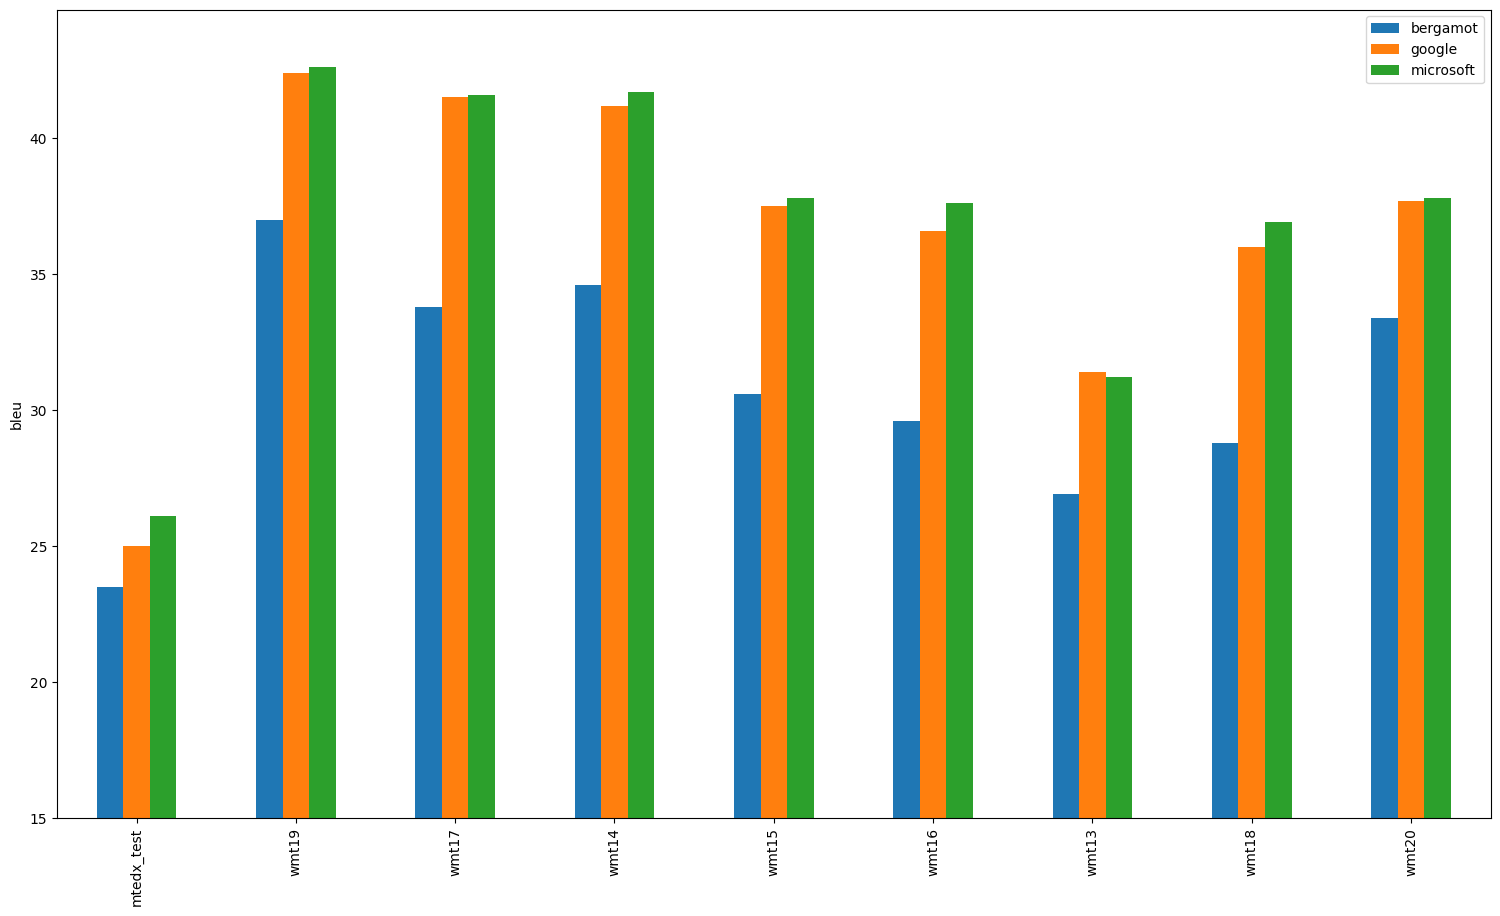
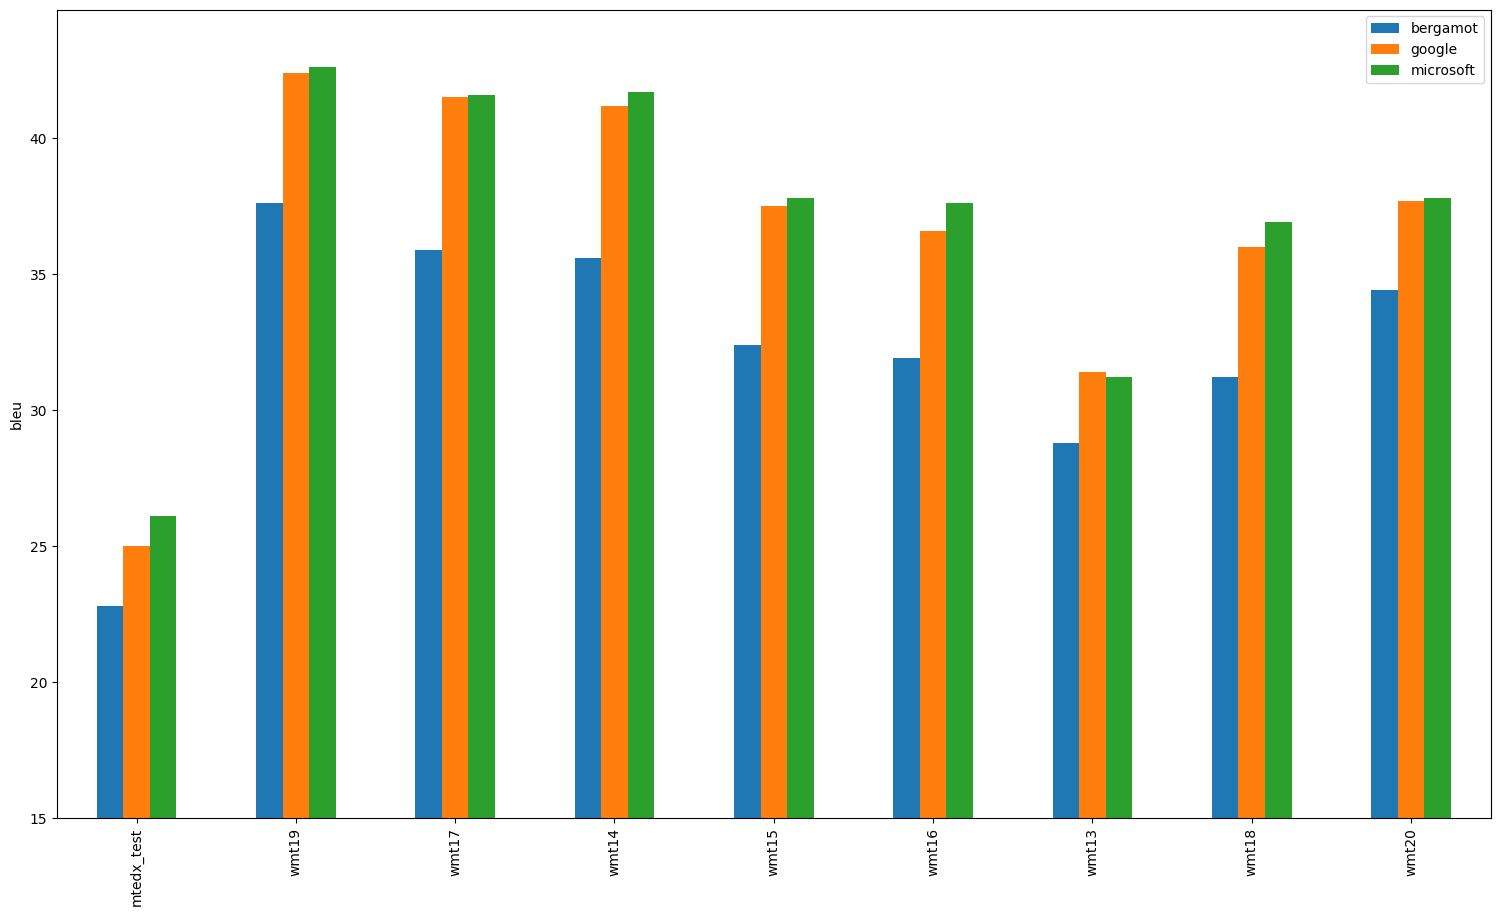
Add Portuguese and Russian test models (#9)
* Add contribution guidelines
* Update dev models
* Update evaluation results

diff --git a/evaluation/dev/results.md b/evaluation/dev/results.md
@@ -57,11 +57,11 @@ Both absolute and relative differences in BLEU scores between Bergamot and other
 
 ## avg
 
-| Translator/Dataset | ru-en |
-| --- | --- |
-| bergamot | 30.91 |
-| google | 36.59 (+5.68, +18.37%) |
-| microsoft | 37.03 (+6.12, +19.81%) |
+| Translator/Dataset | ru-en | en-ru | pt-en |
+| --- | --- | --- | --- |
+| bergamot | 32.29 | 28.51 | 39.70 |
+| google | 36.59 (+4.30, +13.32%) | 33.75 (+5.24, +18.37%) | 38.90 (-0.80, -2.02%) |
+| microsoft | 37.03 (+4.74, +14.69%) | 33.83 (+5.31, +18.63%) | 40.90 (+1.20, +3.02%) |
 
 ![Results](img/avg.png)
 
@@ -69,8 +69,28 @@ Both absolute and relative differences in BLEU scores between Bergamot and other
 
 | Translator/Dataset | mtedx_test | wmt19 | wmt17 | wmt14 | wmt15 | wmt16 | wmt13 | wmt18 | wmt20 |
 | --- | --- | --- | --- | --- | --- | --- | --- | --- | --- |
-| bergamot | 23.50 | 37.00 | 33.80 | 34.60 | 30.60 | 29.60 | 26.90 | 28.80 | 33.40 |
-| google | 25.00 (+1.50, +6.38%) | 42.40 (+5.40, +14.59%) | 41.50 (+7.70, +22.78%) | 41.20 (+6.60, +19.08%) | 37.50 (+6.90, +22.55%) | 36.60 (+7.00, +23.65%) | 31.40 (+4.50, +16.73%) | 36.00 (+7.20, +25.00%) | 37.70 (+4.30, +12.87%) |
-| microsoft | 26.10 (+2.60, +11.06%) | 42.60 (+5.60, +15.14%) | 41.60 (+7.80, +23.08%) | 41.70 (+7.10, +20.52%) | 37.80 (+7.20, +23.53%) | 37.60 (+8.00, +27.03%) | 31.20 (+4.30, +15.99%) | 36.90 (+8.10, +28.12%) | 37.80 (+4.40, +13.17%) |
+| bergamot | 22.80 | 37.60 | 35.90 | 35.60 | 32.40 | 31.90 | 28.80 | 31.20 | 34.40 |
+| google | 25.00 (+2.20, +9.65%) | 42.40 (+4.80, +12.77%) | 41.50 (+5.60, +15.60%) | 41.20 (+5.60, +15.73%) | 37.50 (+5.10, +15.74%) | 36.60 (+4.70, +14.73%) | 31.40 (+2.60, +9.03%) | 36.00 (+4.80, +15.38%) | 37.70 (+3.30, +9.59%) |
+| microsoft | 26.10 (+3.30, +14.47%) | 42.60 (+5.00, +13.30%) | 41.60 (+5.70, +15.88%) | 41.70 (+6.10, +17.13%) | 37.80 (+5.40, +16.67%) | 37.60 (+5.70, +17.87%) | 31.20 (+2.40, +8.33%) | 36.90 (+5.70, +18.27%) | 37.80 (+3.40, +9.88%) |
 
 ![Results](img/ru-en.png)
+
+## en-ru
+
+| Translator/Dataset | wmt16 | wmt15 | wmt18 | wmt14 | wmt17 | wmt20 | wmt13 | wmt19 |
+| --- | --- | --- | --- | --- | --- | --- | --- | --- |
+| bergamot | 28.80 | 29.70 | 26.50 | 35.30 | 31.60 | 21.00 | 25.20 | 30.00 |
+| google | 34.00 (+5.20, +18.06%) | 35.00 (+5.30, +17.85%) | 34.10 (+7.60, +28.68%) | 43.40 (+8.10, +22.95%) | 37.30 (+5.70, +18.04%) | 26.40 (+5.40, +25.71%) | 27.60 (+2.40, +9.52%) | 32.20 (+2.20, +7.33%) |
+| microsoft | 33.80 (+5.00, +17.36%) | 35.60 (+5.90, +19.87%) | 33.20 (+6.70, +25.28%) | 44.10 (+8.80, +24.93%) | 38.10 (+6.50, +20.57%) | 26.00 (+5.00, +23.81%) | 27.10 (+1.90, +7.54%) | 32.70 (+2.70, +9.00%) |
+
+![Results](img/en-ru.png)
+
+## pt-en
+
+| Translator/Dataset | mtedx_test |
+| --- | --- |
+| bergamot | 39.70 |
+| google | 38.90 (-0.80, -2.02%) |
+| microsoft | 40.90 (+1.20, +3.02%) |
+
+![Results](img/pt-en.png)

diff --git a/README.md b/README.md
@@ -5,15 +5,42 @@ The model files are hosted using [Git LFS](https://docs.github.com/en/github/man
 
 [prod](models/prod) - production quality models 
 
-[dev](models/dev) - test models under development (can be of low quality or speed)
+[dev](models/dev) - test models under development (can be of low quality or speed). 
 
-# Evaluation results
+When a dev model is tested by humans in the extension and has satisfactory quality, it is moved to prod.
 
-Quality evaluation is done using [firefox-translations-evaluation]() tool.
+# Automatic quality evaluation
 
-[prod](evaluation/prod/results.md)
+[Results for prod models](evaluation/prod/results.md)
 
-[dev](evaluation/dev/results.md)
+[Resutls for dev models](evaluation/dev/results.md)
+
+Automatic evaluation is a part of pull request CI. 
+It uses Microsoft and Google translation APIs and pushes results back to the branch (not available for forks).
+It is performed using [firefox-translations-evaluation](https://github.com/mozilla/firefox-translations-evaluation) tool.
+
+# Model contribution
+
+## By maintainers
+
+Create a pull Request to `main` branch from another branch in this repo.
+
+## From forks
+
+Create a Pull Request to `contrib` branch. 
+When it is reviewed and merged, another pull request to `main` branch will be created by a maintainer to kick off automatic evaluation.
+
+## Local testing
+
+You can run model evaluation locally by running `bash scripts/update-results.sh`. 
+Make sure to set environment variables `GCP_CREDS_PATH` and `AZURE_TRANSLATOR_KEY` to use Google and Microsoft APIs.
+If you want to run it with `bergamot` only, remove mentions of those variables from `bash scripts/update-results.sh` and remove `microsoft,google` from `scripts/eval.sh`. 
+
+## Training data
+
+Do not use [SacreBLEU](https://github.com/mjpost/sacrebleu) datasets as a part of training data, otherwise evaluation will not be correct.
+
+To see SacreBLEU datasets run `sacrebleu --list`.
 
 
 # Currently supported Languages
@@ -23,11 +50,11 @@ Quality evaluation is done using [firefox-translations-evaluation]() tool.
 - English -> German
 - Czech <-> English
 ## Dev
--  Russian -> English
+-  Russian <-> English
+-  Portuguese -> English
 ## Upcoming
 -  German -> English
 -  French <-> English
 -  Polish <-> English
--  Russian <- English
--  Portuguese <-> English
+-  Portuguese <- English
 -  Italian <-> English
